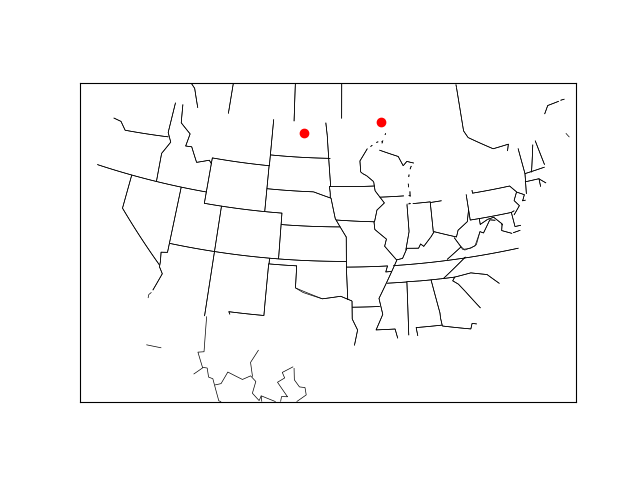
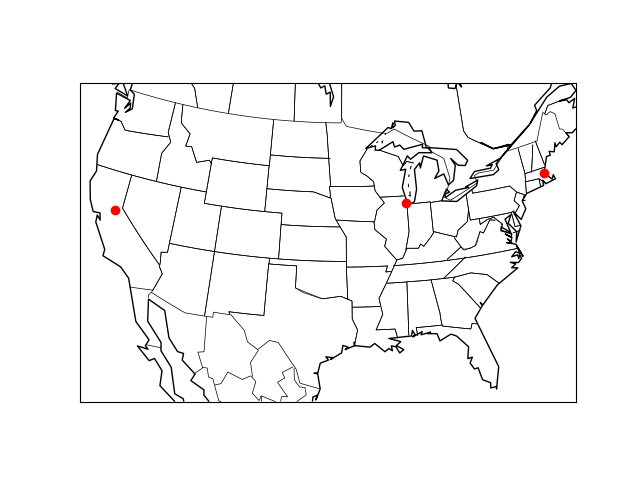
Fixes ; Add pville

diff --git a/plot_cities.py b/plot_cities.py
@@ -1,15 +1,17 @@
 import matplotlib.pyplot as plt
 from mpl_toolkits.basemap import Basemap
 
-cities = [["Chicago",48, -100],
-          ["Boston", 49, -90],
-          ["Placerville", 39, 121]]
+cities = [["Chicago",41.9, -87.6],
+          ["Boston", 42.4, -71.1],
+          ["Placerville", 38.7, -120.8]]
 scale = 5
 
 map = Basemap(llcrnrlon=-119,llcrnrlat=22,urcrnrlon=-64,urcrnrlat=49,
         projection='lcc',lat_1=32,lat_2=45,lon_0=-95)
 
 map.drawstates()
+map.drawcountries()
+map.drawcoastlines()
 
 # Get the location of each city and plot it
 for (city, latitude, longitude) in cities:
